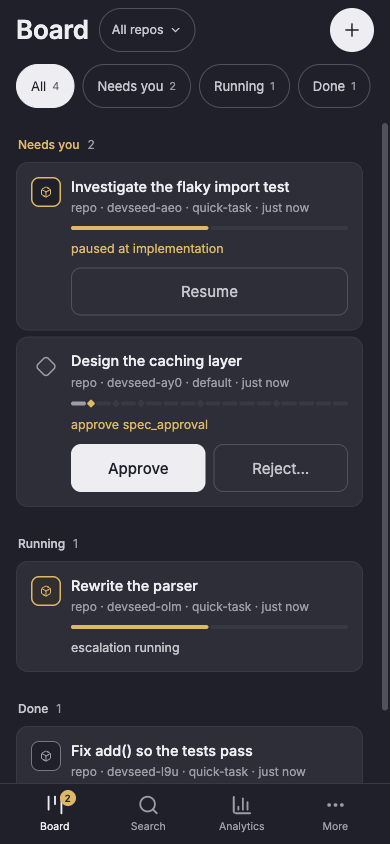
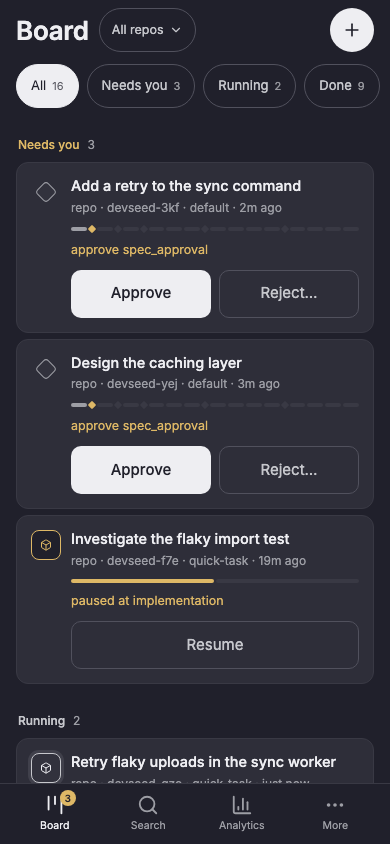
Docs: retake the README screenshots from 1.5.0rc6 (#412)
* Docs: retake the README screenshots from an installed 1.5.0rc6

* Docs: the gate screenshot shows the spec itself; search and analytics from fuller data

---------

diff --git a/docsite/content/1.get-started/2.first-work-item.md b/docsite/content/1.get-started/2.first-work-item.md
@@ -202,9 +202,9 @@ Before any code is written it stops at three gates, one after another:
 is about the chain itself: an agent checks the approved spec and plan against
 the nodes still to run and proposes changes to them, and when it proposes none,
 which is usual, the gate passes without asking you. Each gate shows up under
-*Needs you* on the board:
+*Needs you* on the board. Open one to read the document it is about:
 
-![A spec an agent wrote, waiting for your approval on the item's page](/assets/gate.png)
+![A spec an agent wrote, rendered on the item's review page and waiting for your approval, with Request changes and Approve](/assets/gate.png)
 
 ```bash
 kraft view artifact ID     # read the document the gate is about

diff --git a/README.md b/README.md
@@ -45,7 +45,7 @@ New here? [Why Kraft](https://itsomidkarami.github.io/kraft/get-started/why-kraf
 **A gate stops the chain where a human decides.** Read what the agent wrote,
 then approve, or reject with a note that re-runs the node that wrote it.
 
-![A spec an agent wrote, waiting for your approval on the item's page](https://raw.githubusercontent.com/itsOmidKarami/kraft/main/.github/assets/gate.png)
+![A spec an agent wrote, rendered on the item's review page and waiting for your approval, with Request changes and Approve](https://raw.githubusercontent.com/itsOmidKarami/kraft/main/.github/assets/gate.png)
 
 </td>
 <td width="35%">

diff --git a/docsite/content/index.md b/docsite/content/index.md
@@ -46,7 +46,7 @@ description: Read what the agent wrote, then approve, or reject with a note that
 orientation: horizontal
 reverse: true
 ---
-![A spec an agent wrote, waiting for your approval on the item's page](/assets/gate.png)
+![A spec an agent wrote, rendered on the item's review page and waiting for your approval, with Request changes and Approve](/assets/gate.png)
 ::
 
 ::u-page-section
